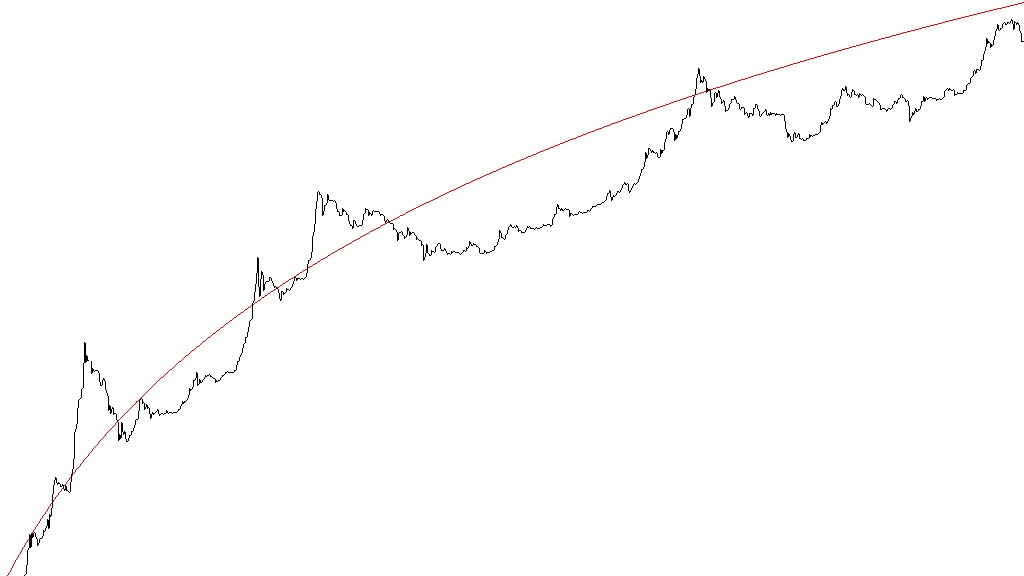
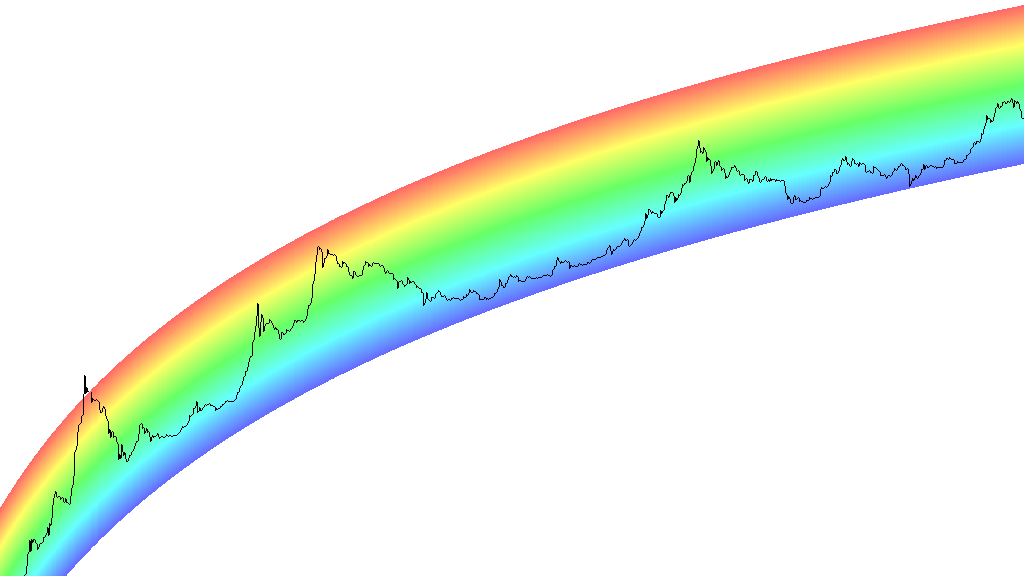
Implemented trolololo's rainbow chart

Changed region(s): [[0.0, 0.0, 1.0, 1.0]]

diff --git a/src/btc-charts.c b/src/btc-charts.c
@@ -2,6 +2,7 @@
  * TODO
  *  - add grid
  *  - add anotations (prices, date, javibonafonte.com, ...)
+ *  - stock to flow
  */
 
 #include <stdlib.h>
@@ -126,15 +127,51 @@ float apply_scale (int scale, float value) {
 /**
  *
  */
-void paint_function (int *image, float min_x, float max_x, float min_y,
+void paint_rainbow_column (int *image, int x, int j, int thickness,
+        int min_hue, int max_hue, int alpha) {
+
+    int r, g, b;
+    float hue;
+
+    for (int y = 0; y < HEIGHT; y++) {
+        if (abs (y - j) < thickness) {
+
+            hue = ((y - j + thickness + min_hue) * max_hue / thickness)
+                % 360;
+            hsl_to_rgb (&r, &g, &b, hue, 1, 0.7);
+            set_rgba (image, WIDTH, x, y, r, g, b, alpha);
+        }
+    }
+}
+
+/**
+ *
+ */
+void paint_function_column (int *image, int x, int j, int prev_j,
+        int r, int g, int b, int a) {
+
+    for (int y = 0; y < HEIGHT; y++) {
+        if ((x > 0 && ((j < prev_j && y < prev_j && y > j)
+                        || (j > prev_j && y > prev_j && y < j))) 
+                || y == j) {
+            set_rgba (image, WIDTH, x, y, r, g, b, a);
+        }
+    }
+}
+
+/**
+ *
+ */
+void paint_trololo (int *image, float min_x, float max_x, float min_y,
         float max_y, int y_scale) {
 
     min_y = apply_scale (y_scale, min_y);
     max_y = apply_scale (y_scale, max_y);
-    int x, y, day, j, prev_j;
+    int day, j, prev_j;
     float value;
 
-    for (x = 0; x < WIDTH; x++) {
+
+    for (int x = 0; x < WIDTH; x++) {
 
         day = (int) x * (max_x - min_x) / WIDTH + min_x;
 
@@ -146,13 +183,9 @@ void paint_function (int *image, float min_x, float max_x, float min_y,
 
         j = HEIGHT - (int) ((value - min_y) * HEIGHT) / (max_y - min_y);
 
-        for (y = 0; y < HEIGHT; y++) {
-            if ((x > 0 && ((j < prev_j && y < prev_j && y > j)
-                            || (j > prev_j && y > prev_j && y < j))) 
-                    || y == j) {
-                set_rgba (image, WIDTH, x, y, 255, 0, 0, 255);
-            }
-        }
+        paint_rainbow_column (image, x, j, 80, 0, 120, 255);
+        //paint_function_column (image, x, j, prev_j, 255, 0, 0, 255);
+
         prev_j = j;
     }
 }
@@ -161,29 +194,24 @@ void paint_function (int *image, float min_x, float max_x, float min_y,
  *
  */
 void paint_price_image (int *image, struct row *rows, int num_rows,
-        float min, float max, int scale) {
+        float min, float max, int y_scale) {
 
-    min = apply_scale (scale, min);
-    max = apply_scale (scale, max);
-    int x, y, j, prev_j;
+    min = apply_scale (y_scale, min);
+    max = apply_scale (y_scale, max);
+    int x, j, prev_j;
     double price;
 
     for (x = 0; x < WIDTH; x++) {
 
-        price = apply_scale (scale,
+        price = apply_scale (y_scale,
                 rows[x * (int) num_rows / WIDTH].price);
 
         if (price != -1) {
 
             j = HEIGHT - (int) ((price - min) * HEIGHT) / (max - min);
 
-            for (y = 0; y < HEIGHT; y++) {
-                if ((x > 0 && ((j < prev_j && y < prev_j && y > j)
-                                || (j > prev_j && y > prev_j && y < j)))
-                        || y == j) {
-                    set_rgba (image, WIDTH, x, y, 0, 0, 0, 255);
-                }
-            }
+            paint_function_column (image, x, j, prev_j, 0, 0, 0, 255);
+
             prev_j = j;
         }
     }
@@ -222,8 +250,8 @@ int main (int argc, char *argv[]) {
 
     //paint_price_image (image, rows, num_rows, 0, 65000, linear);
 
-    paint_function (image, 554, num_rows + 554, 0.1, 100000, logarithmic);
-    paint_price_image (image, rows, num_rows, 0.1, 100000, logarithmic);
+    paint_trololo (image, 554, num_rows + 554, 0.1, 1000000, logarithmic);
+    paint_price_image (image, rows, num_rows, 0.1, 1000000, logarithmic);
 
     // Writes 'image' buffer to file
     return write_image (image, IMG_PATH, WIDTH, HEIGHT);

diff --git a/src/myimg/myimg.c b/src/myimg/myimg.c
@@ -1,5 +1,6 @@
 #include <stdlib.h>
 #include <stdio.h>
+#include <math.h>
 #include <png.h>
 //#include <MagickWand/MagickWand.h>
 
@@ -11,6 +12,38 @@
  * use this...
  * http://www.labbookpages.co.uk/software/imgProc/libPNG.html
  */
+
+/**
+ * Converts HSL color to RGB
+ * where 0 <= 'h' < 360, 0 <= 's' < 1, 0 <= 'l' < 1
+ */
+void hsl_to_rgb(int *r, int *g, int *b, int h, float s, float l) {
+
+    float c, x, m, r0 = 0, g0 = 0, b0 = 0;
+
+    c = (1 - fabs (2 * l - 1)) * s;
+    x = c * (1 - fabs (fmodf (h / 60.0, 2) - 1));
+    m = l - c / 2;
+
+    if ((h >= 0 && h < 60) || (h >= 300 && h < 360))
+        r0 = c;
+    else if ((h >= 60 && h < 120) || (h >= 240 && h < 300))
+        r0 = x;
+
+    if ((h >= 0 && h < 60) || (h >= 180 && h < 240))
+        g0 = x;
+    else if (h>= 60 && h < 180)
+        g0 = c;
+
+    if ((h >= 120 && h < 180) || (h >= 300 && h < 360))
+        b0 = x;
+    else if (h>= 180 && h < 300)
+        b0 = c;
+
+    *r = round ((r0 + m) * 255);
+    *g = round ((g0 + m) * 255);
+    *b = round ((b0 + m) * 255);
+}
 
 /**
  * Returns integers RGBA image buffer of 'width' by 'height' or NULL if it

diff --git a/src/myimg/myimg.h b/src/myimg/myimg.h
@@ -1,4 +1,5 @@
 
+void hsl_to_rgb(int *, int *, int *, int, float, float);
 int *create_image (int, int);
 int get_image_index (int, int, int);
 void set_rgba (int *, int, int, int, int, int, int, int);
